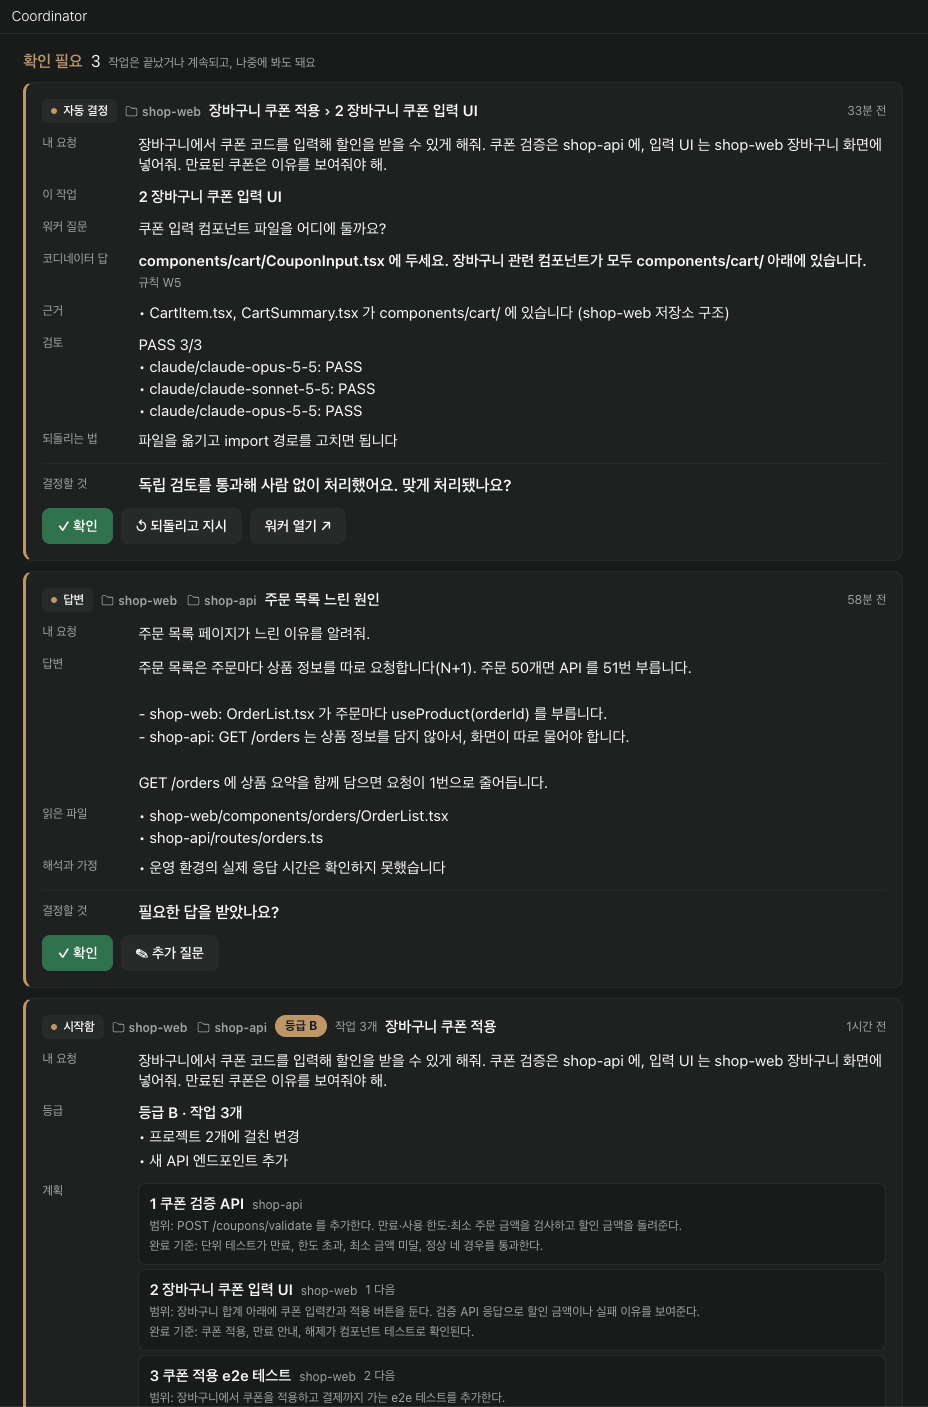
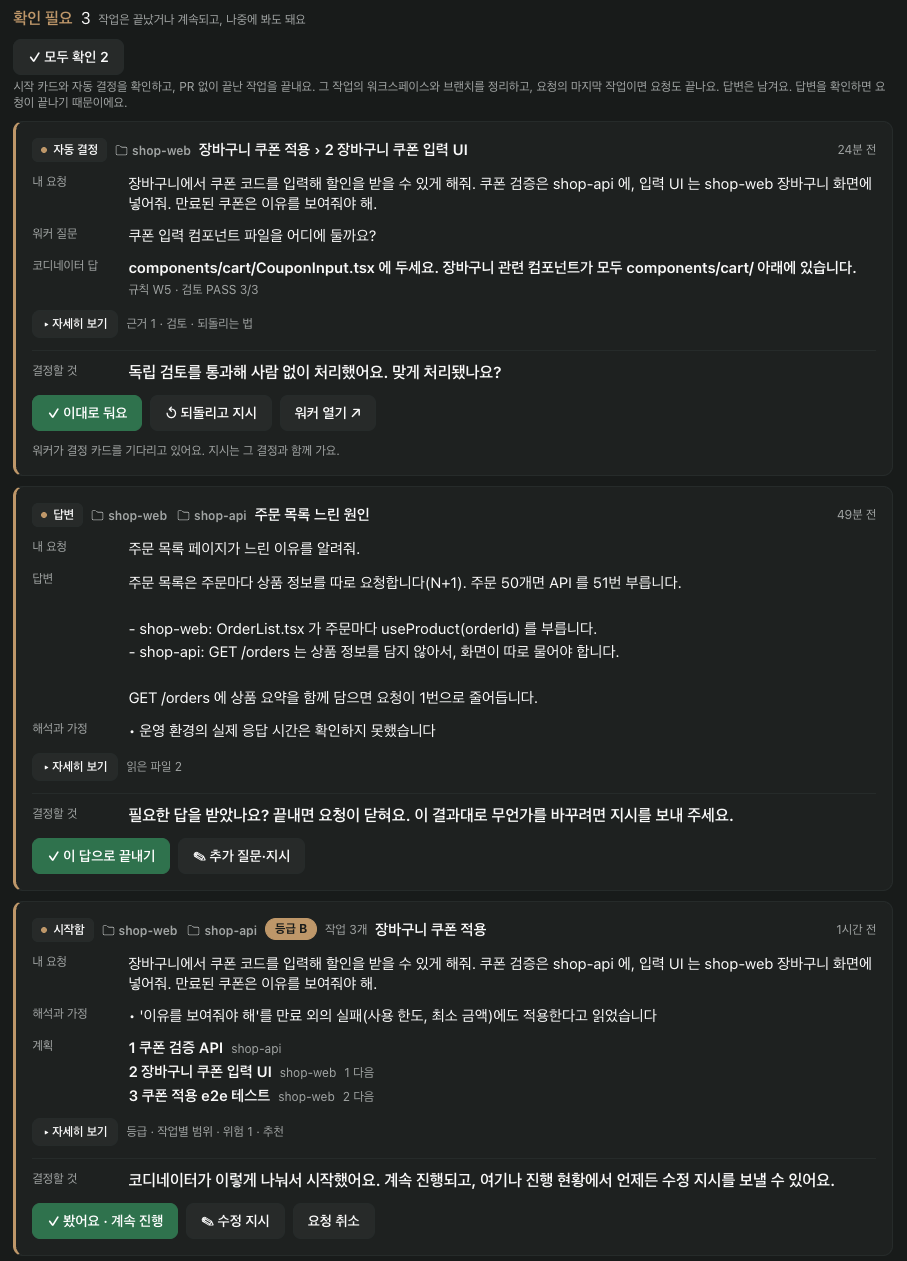
docs: screenshots of the new decision cards
The inbox, worker question and merge card screenshots showed the old cards
with every field expanded. They now show the cards that lead with the
situation and the decision and fold the evidence under Details. Taken with
demo projects; the note about the old "Needs reaction" name is no longer
needed.

diff --git a/README.md b/README.md
@@ -49,18 +49,16 @@ A request that asks for a change never ends as just a report:
 
 The sidebar badge counts only the left column. Buttons say what they do: "End with this answer" closes a read request, "Seen, keep going" leaves a started request running, and "Finish · clean up" closes a task without a pull request. "Mark all reviewed" handles the right column in one go but skips answers, because confirming an answer ends its request. If the coordinator itself stops (it cannot be reached, or keeps ignoring what it was sent), a "Coordinator stopped" card shows why and lets you try again.
 
-*The screenshots below were taken before the left column was renamed from "Needs reaction" to "Needs my decision".*
-
 <p>
-  <img src="assets/inbox-needs-reaction.png" alt="Needs my decision: a coordinator question card with options and a recommendation for each question, followed by a worker question card" width="49%">
-  <img src="assets/inbox-to-review.png" alt="To review: an automatic decision card with its evidence and three passing reviewers, an answer card for a read-only request, and a started-request card with the plan" width="49%">
+  <img src="assets/inbox-needs-reaction.png" alt="Needs my decision: a coordinator question card with your request, the background and two questions with a recommended option each, followed by a worker question card" width="49%">
+  <img src="assets/inbox-to-review.png" alt="To review: an automatic decision card with its rule and three passing reviewers, an answer card for a read-only request, and a started-request card with the plan, each with its details folded" width="49%">
 </p>
 
 Every card reads top to bottom: your request and what is happening, anything to check (reviewer objections, assumptions, work left), then the decision with its options and buttons. The decision is the actual question, with the recommended option marked and a one-line risk for each option. Evidence such as the worker's full report, verification, choices the worker made and how to undo each option sits under **Details**, folded, with the names of its sections next to the button. You can pick the recommendation, write your own instruction, or ask the coordinator first; the questions and answers stay in the task's decision record.
 
 <p>
-  <img src="assets/worker-question-card.png" alt="Worker question card: what the worker reported and checked, the coordinator's view with the rule that sent it to you, options with result, risk and undo, and a question already answered by the coordinator" width="49%">
-  <img src="assets/merge-card.png" alt="Merge card: the worker's report with verification and the choices it made on its own, the pull request with its size and checks, and a squash-merge button" width="49%">
+  <img src="assets/worker-question-card.png" alt="Worker question card: your request, the situation, a question already answered by the coordinator, folded details, then the worker's question with options, their risks and the reasons for the recommendation" width="49%">
+  <img src="assets/merge-card.png" alt="Merge card: your request, the worker's report, work left, the pull request with its size and checks, folded verification and choices, and a squash-merge button" width="49%">
 </p>
 
 *Left: a worker question that needs a person, with a question you already asked the coordinator. Right: a finished task waiting for you to merge its pull request.*
